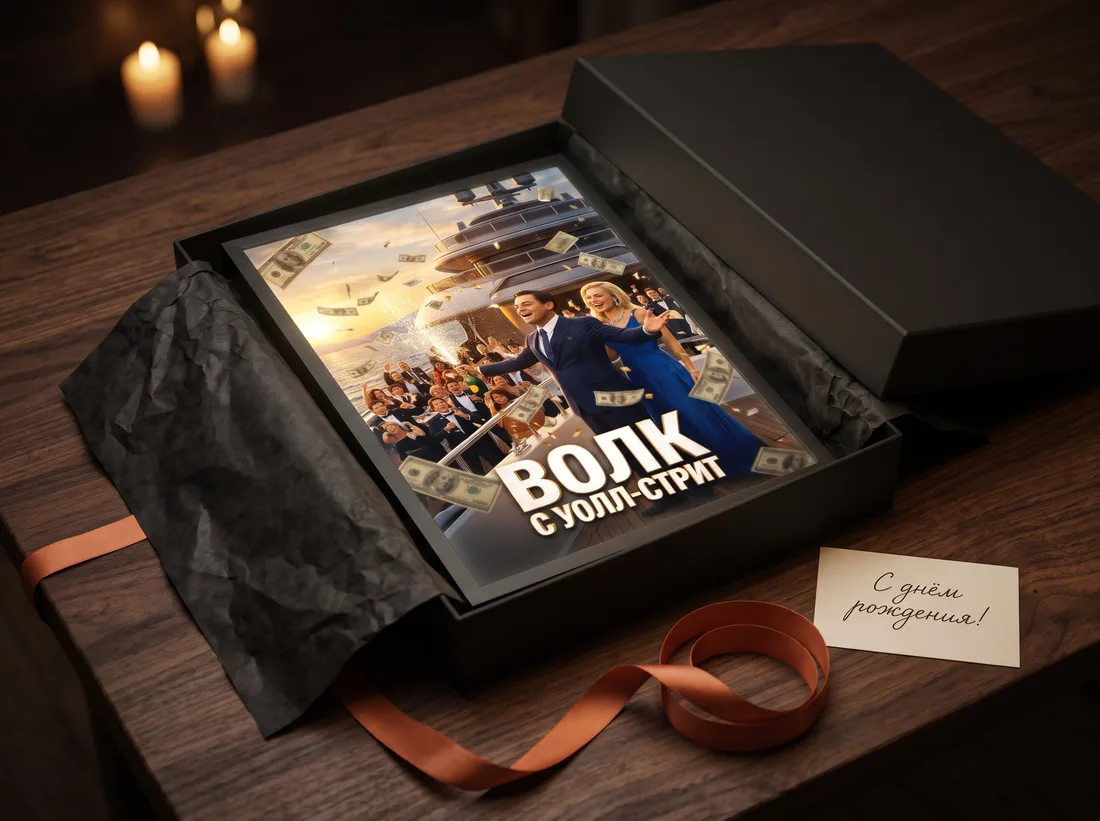
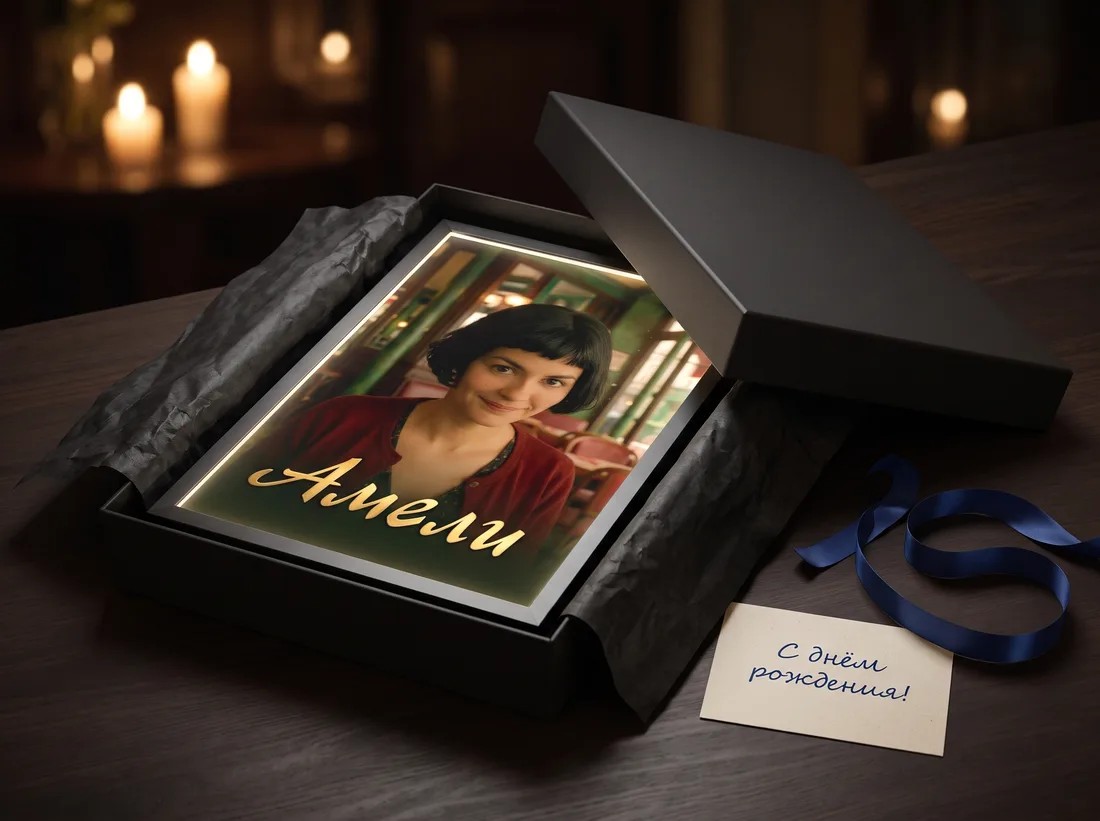
Синий вместо зелёного, фото-плитки, живой каталог, знак рубля, переключатель, подвал

diff --git a/index.html b/index.html
@@ -16,7 +16,7 @@
     --black: #000; --carbon: #0a0a0b; --graphite: #141416; --panel: #1b1b1e; --panel2: #232327;
     --line: rgba(255,255,255,.09); --line2: rgba(255,255,255,.16);
     --white: #f5f5f7; --silver: #b9bcc2; --muted: #8b8d93; --dim: #5d5f65;
-    --warm: 255, 214, 130; --accent: 255, 208, 40; --blue: 47, 107, 255; --green: 46, 204, 113; --rail: 0px; --hh: 78px; --disp: "Manrope", -apple-system, system-ui, sans-serif; --neutral: 255, 238, 214;
+    --warm: 255, 214, 130; --accent: 255, 208, 40; --blue: 84, 136, 255; --green: 84, 136, 255; --rail: 0px; --hh: 78px; --disp: "Manrope", -apple-system, system-ui, sans-serif; --neutral: 255, 238, 214;
     --glow: var(--warm);
     --pill: 4px;
   }
@@ -888,7 +888,7 @@
   @media (max-width: 900px) { .facts { grid-template-columns: repeat(2, minmax(0, 1fr)); } .facts div { border-left: 0; border-top: 1px solid rgba(206,220,255,.08); } .facts div:first-child, .facts div:nth-child(2) { border-top: 0; } .allspecs .specs3 { grid-template-columns: minmax(0, 1fr); gap: 8px; } }
 
   /* подарки */
-  .gifts3 .badge { background: rgb(var(--green)); color: #04130a; }
+  .gifts3 .badge { background: rgb(var(--blue)); color: #fff; }
   .gifts3 .set.hit { border-color: rgba(var(--green), .5) !important; }
 
   /* доставка: 0 ₽, маркетплейсы, счётчик по городу */
@@ -921,7 +921,7 @@
   @media (max-width: 900px) { .ship { grid-template-columns: minmax(0, 1fr); } .ship-main { grid-template-columns: minmax(0, 1fr); padding: 24px; } .ship-calc { grid-column: 1; grid-row: auto; padding: 24px 0 0; border-left: 0; border-top: 1px solid rgba(206,220,255,.1); } .ship-side { grid-template-columns: minmax(0, 1fr); } }
 
   /* Телеграм, корзина, демо-оплата */
-  .btn.tg { margin-top: 26px; height: 54px; padding: 0 26px; font-size: 16px; gap: 10px; background: rgb(var(--blue)); color: #fff; }
+  .btn.tg { margin-top: 26px; height: 54px; padding: 0 26px; font-size: 16px; gap: 10px; background: #2f6bff; color: #fff; }
   .btn.tg:hover { background: #4a80ff; }
   .btn.tg svg { width: 22px; height: 22px; fill: currentColor; }
   .drawer { width: min(504px, 100%); }
@@ -932,6 +932,60 @@
   .coil { height: clamp(400px, 42vw, 560px) !important; }
   footer .legal { font-size: 13px; color: rgba(240,244,250,.6); }
   @media (max-width: 760px) { .coil { height: 440px !important; } }
+
+  /* переключатель подсветки: ясные состояния, нормальная подпись */
+  .lightsw, .hero .lightsw { font-size: 14px; font-weight: 600; letter-spacing: 0; text-transform: none; color: rgba(240,244,250,.8); gap: 12px; }
+  .toggle { width: 48px; height: 28px; border-radius: 14px !important; background: rgba(206,220,255,.14); box-shadow: inset 0 0 0 1px rgba(206,220,255,.25); }
+  .toggle::after { top: 3px; left: 3px; width: 22px; height: 22px; border-radius: 50% !important; background: #f2f5fa; }
+  .toggle.on { background: rgb(var(--accent)); box-shadow: none; } .toggle.on::after { transform: translateX(20px); background: #07090e; }
+  .hero.off .hero-bg { filter: brightness(.55); }
+  /* подвал */
+  footer { font-size: 15px; padding: 64px 0 36px; background: #04060a; }
+  .fgrid h4 { font-size: 13px; font-weight: 700; letter-spacing: .04em; text-transform: none; color: var(--cream); margin-bottom: 14px; }
+  .fgrid a { color: rgba(240,244,250,.62); padding: 6px 0; font-size: 15px; }
+  .fgrid a:hover { color: var(--cream); }
+  footer .legal { font-size: 14px; color: rgba(240,244,250,.55); margin-top: 44px; }
+  footer .legal a:hover { color: var(--cream); }
+
+  /* вся коллекция: светлее и живее */
+  .sheet.cat { background: radial-gradient(ellipse 60% 40% at 12% 0%, rgba(47,107,255,.28), transparent 70%), radial-gradient(ellipse 50% 36% at 92% 0%, rgba(var(--accent), .16), transparent 70%), linear-gradient(180deg, #151c2e, #0b101b) !important; }
+  .cat-head { display: flex; align-items: center; gap: 14px; flex-wrap: wrap; }
+  .cat-head h3 { font-size: 34px !important; font-weight: 800 !important; letter-spacing: -.03em; }
+  .cat-n { padding: 6px 12px; border-radius: 999px; background: rgb(var(--accent)); color: #07090e; font-size: 13px; font-weight: 800; }
+  .cat-sub { color: rgba(240,244,250,.75); font-size: 16px; }
+  .cat-chips { display: flex; flex-wrap: wrap; gap: 8px; margin-top: 22px; }
+  .cat-chips button { padding: 10px 16px; border-radius: 999px; font-size: 14px; font-weight: 700; color: var(--cream); background: rgba(206,220,255,.1); transition: background .2s ease, color .2s ease, transform .2s ease; }
+  .cat-chips button:hover { background: rgba(206,220,255,.2); transform: translateY(-1px); }
+  .cat-chips button.on { background: #2f6bff; color: #fff; }
+  .cat-grid { grid-template-columns: repeat(auto-fill, minmax(168px, 1fr)); gap: 34px 24px; margin-top: 30px; }
+  .cg[hidden] { display: none; }
+  .cg .frame { box-shadow: 0 0 0 1px rgba(255,255,255,.12), 0 18px 34px rgba(0,0,0,.45), 0 0 34px rgba(var(--glow), .16); transition: transform .35s cubic-bezier(.2,.8,.2,1), box-shadow .35s ease; }
+  .cg:nth-child(odd) .frame { transform: rotate(-1.4deg); } .cg:nth-child(even) .frame { transform: rotate(1.2deg); }
+  .cg:hover .frame { transform: translateY(-8px) scale(1.04) rotate(0deg); outline: 0; box-shadow: 0 0 0 2px rgb(var(--accent)), 0 26px 44px rgba(0,0,0,.5), 0 0 60px rgba(var(--glow), .38); }
+  .cg b { margin-top: 14px; font-size: 15px; font-weight: 800; }
+  .cg span { font-size: 13px; color: rgba(240,244,250,.6); }
+  @media (max-width: 600px) { .cat-grid { grid-template-columns: repeat(3, minmax(0, 1fr)); gap: 20px 12px; } .cat-head h3 { font-size: 26px !important; } }
+
+  /* как это работает: плитки с фото */
+  .bento-head { display: flex; justify-content: space-between; align-items: flex-end; gap: 40px; flex-wrap: wrap; }
+  .bento-head .lead { max-width: 400px; }
+  .bento { display: grid; grid-template-columns: minmax(0, 1.25fr) minmax(0, 1fr) minmax(0, 1fr); grid-template-rows: 300px 270px; gap: 18px; margin-top: 44px; }
+  .bt { position: relative; border-radius: 16px !important; overflow: hidden; background: #0a0d14; box-shadow: inset 0 0 0 1px rgba(206,220,255,.08); }
+  .bt-vid { grid-row: 1 / 3; aspect-ratio: auto !important; }
+  .bt-wide { grid-column: 2 / 4; }
+  .bt > img, .bt > video { position: absolute; inset: 0; width: 100%; height: 100%; object-fit: cover; }
+  .bt > img:not(.lv-day) { transition: transform 1.4s cubic-bezier(.2,.8,.2,1); }
+  .bt:hover > img:not(.lv-day) { transform: scale(1.05); }
+  .bt::after { content: ""; position: absolute; inset: 0; z-index: 1; pointer-events: none; background: linear-gradient(0deg, rgba(4,6,11,.88), rgba(4,6,11,.25) 42%, transparent 60%); }
+  .bt-cap { position: absolute; z-index: 2; left: 26px; right: 26px; bottom: 24px; }
+  .bt-cap b { display: block; font-size: 32px; font-weight: 800; letter-spacing: -.035em; line-height: 1.1; color: var(--cream); }
+  .bt-cap span { display: block; margin-top: 6px; font-size: 15px; line-height: 1.4; color: rgba(240,244,250,.78); }
+  #specs { margin-top: 26px; }
+  @media (max-width: 900px) { .bento { grid-template-columns: minmax(0, 1fr); grid-template-rows: none; } .bt { aspect-ratio: 4 / 3; } .bt-vid { grid-row: auto; aspect-ratio: 4 / 3 !important; } .bt-wide { grid-column: auto; } .bt-cap b { font-size: 26px; } }
+  /* сервис */
+  .ship-t b { display: block; font-size: 40px; font-weight: 800; letter-spacing: -.04em; line-height: 1; color: var(--cream); }
+  .ship-t h3 { margin-top: 6px; font-size: 17px; font-weight: 700; color: rgba(240,244,250,.8); }
+  .ship-t p { margin-top: 12px; }
 </style>
 </head>
 <body class="in-hero">
@@ -986,27 +1040,17 @@
 </section>
 
 <!-- 2. Обзор -->
-<section id="overview"><div class="wrap split">
-  <div class="ov">
-    <div class="label">Как это работает</div>
-    <h2>Днём — картина.<br>Вечером — свет.</h2>
-    <p class="lead">Выключена — строгий постер в тонкой раме. Включена — светится изнутри, как афиша кинотеатра.</p>
-    <ul class="ov-list">
-      <li><b>Вместо бра</b><span>Мягкий свет, не слепит</span></li>
-      <li><b>Ровное свечение</b><span>Без пятен и тёмных углов</span></li>
-      <li><b>Один провод</b><span>Тонкий кабель с выключателем</span></li>
-    </ul>
+<section id="overview"><div class="wrap">
+  <div class="bento-head"><div><div class="label">Как это работает</div><h2 style="margin-top:16px">Днём — картина.<br>Вечером — свет.</h2></div>
+    <p class="lead">Выключена — строгий постер в тонкой раме. Включена — светится изнутри, как афиша кинотеатра.</p></div>
+  <div class="bento">
+    <div class="bt bt-vid lightvid to-day"><video id="lightVid" muted playsinline preload="auto" poster="img/w/scene-off.webp" aria-label="Рамка включается вечером"><source src="media/light-on.mp4" type="video/mp4"></video><img class="lv-day" src="img/w/scene-off.webp" alt=""><div class="bt-cap"><b>Свет вместо бра</b><span>Мягкий, ровный, не слепит</span></div></div>
+    <div class="bt"><img loading="lazy" src="img/w/d-edge.webp" alt="Тонкий профиль рамки сбоку"><div class="bt-cap"><b>10 мм</b><span>Толщина рамки — как у картины</span></div></div>
+    <div class="bt"><img loading="lazy" src="img/w/d-swap.webp" alt="Смена постера в рамке"><div class="bt-cap"><b>1 минута</b><span>Постер меняется спереди, рамку не снимать</span></div></div>
+    <div class="bt bt-wide"><img loading="lazy" src="img/w/d-switch.webp" alt="Выключатель на проводе"><div class="bt-cap"><b>Один провод</b><span>Выключатель под рукой · 12 В · 6–8 Вт, как ночник</span></div></div>
   </div>
-  <div class="lightvid"><video id="lightVid" muted playsinline preload="none" poster="img/w/scene-off.webp" aria-label="Рамка включается вечером"><source src="media/light-on.mp4" type="video/mp4"></video><img class="lv-day" src="img/w/scene-off.webp" alt="" loading="lazy"></div>
 </div>
 <div class="wrap" id="specs">
-  <div class="facts">
-    <div><b>10 мм</b><span>толщина рамки</span></div>
-    <div><b>30 × 42 см</b><span>постер A3</span></div>
-    <div><b>1,2 кг</b><span>вес — держится на одном саморезе</span></div>
-    <div><b>6–8 Вт</b><span>ест как ночник</span></div>
-    <div><b>12 В</b><span>безопасное напряжение</span></div>
-  </div>
   <details class="allspecs"><summary>Все характеристики</summary>
     <div class="specs3">
       <table class="spec"><tr><td>Формат</td><td>A3, 297 × 420 мм</td></tr><tr><td>Размер рамки</td><td>≈ 321 × 444 мм</td></tr><tr><td>Профиль</td><td>Алюминий, матовый чёрный</td></tr><tr><td>Фронт</td><td>Защитное стекло</td></tr><tr><td>Смена постера</td><td>Спереди, за минуту</td></tr></table>
@@ -1047,8 +1091,8 @@
       </div>
     </div>
     <div class="ship-side">
-      <div class="ship-t"><h3>7 дней на возврат</h3><p>Не подошло — вернём деньги после получения рамки.</p></div>
-      <div class="ship-t"><h3>Гарантия 1 год</h3><p>Перестала светить — заменим рамку за наш счёт.</p></div>
+      <div class="ship-t"><b>7 дней</b><h3>на возврат</h3><p>Не подошло — вернём деньги после получения рамки.</p></div>
+      <div class="ship-t"><b>1 год</b><h3>гарантии</h3><p>Перестала светить — заменим рамку за наш счёт.</p></div>
     </div>
   </div>
 </div></section>
@@ -1086,7 +1130,8 @@
 <div class="overlay" id="cartOv"></div>
 <div class="overlay" id="catOv"><div class="sheet cat">
   <button class="x" data-close="catOv" aria-label="Закрыть">×</button>
-  <h3>Вся коллекция</h3><p class="cat-sub">Нажмите на постер — он встанет в рамку. Доставка бесплатно.</p>
+  <div class="cat-head"><h3>Вся коллекция</h3><span class="cat-n" id="catN"></span></div><p class="cat-sub">Нажмите на постер — он встанет в рамку. Доставка бесплатно.</p>
+  <div class="cat-chips" id="catChips"></div>
   <div class="cat-grid" id="catGrid"></div>
 </div></div>
 <div class="overlay" id="pickOv"><div class="sheet picker">
@@ -1139,7 +1184,6 @@ const films = [
   { t: "Марсианин", q: "Один на Марсе — и картошка.", tag: true, o: "The Martian", y: 2015, d: "Ридли Скотт", c: ["sci"], img: "img/martian2.jpg", f: ["Энди Вейер сначала выкладывал роман главами на своём сайте.", "Марс снимали в иорданской пустыне Вади-Рам.", "Семь номинаций на «Оскар»."] },
   { t: "Амели", q: "Маленькие радости ложечкой.", tag: true, o: "Le Fabuleux Destin d'Amélie Poulain", y: 2001, d: "Жан-Пьер Жёне", c: ["love"], img: "img/amelie2.jpg", f: ["Снимали на Монмартре в Париже.", "Красный и зелёный усилили при цветокоррекции — это почерк фильма.", "Пять номинаций на «Оскар»."] },
   { t: "Драйв", q: "Ночной город, неон и тишина.", tag: true, o: "Drive", y: 2011, d: "Николас Виндинг Рефн", c: ["action"], img: "img/drive2.jpg", f: ["Рефн получил приз за режиссуру в Каннах.", "Синтвейв-саундтрек стал культовым сам по себе.", "Снят по роману Джеймса Саллиса."] },
-  { t: "Волк с Уолл-стрит", q: "Продай мне эту ручку.", o: "The Wolf of Wall Street", y: 2013, d: "Мартин Скорсезе", c: ["cult", "action"], img: "img/wolf2.jpg", f: ["Ди Каприо получил «Золотой глобус» за роль Джордана Белфорта.", "Настоящий Белфорт появляется в фильме в камео — в самом конце."] },
   { t: "Клан Сопрано", q: "Бада Бинг!", tag: true, o: "The Sopranos", y: 1999, d: "Дэвид Чейз", c: ["cult"], img: "img/sopranos2.jpg", f: ["Сериал собрал 21 премию «Эмми».", "Финальную сцену в закусочной фанаты разбирают до сих пор."] },
   { t: "Джентльмены", q: "Когда лев голоден — он ест.", o: "The Gentlemen", y: 2019, d: "Гай Ричи", c: ["cult", "action"], img: "img/gentlemen2.jpg", f: ["Мэттью Макконахи играет американца, построившего бизнес в Англии.", "В 2024 году по фильму вышел одноимённый сериал."] },
   { t: "Гарри Поттер", q: "Торжественно клянусь, что замышляю только шалость.", o: "Harry Potter and the Prisoner of Azkaban", y: 2004, d: "Альфонсо Куарон", c: ["sci", "winter"], img: "img/harrypotter2.jpg", f: ["«Узник Азкабана» — единственный фильм серии, снятый Альфонсо Куароном.", "Сириуса Блэка сыграл Гэри Олдман."] },
@@ -1174,7 +1218,7 @@ if (!matchMedia("(prefers-reduced-motion: reduce)").matches) {
   set(false);
   preload(P(films[cfg.poster].img)).then(() => setTimeout(() => { hero.classList.add("intro"); set(true); setTimeout(() => hero.classList.remove("intro"), 2600); }, 1500));
 }
-["Убить Билла", "Интерстеллар", "Матрица", "Бойцовский клуб", "Волк с Уолл-стрит"].map(t => films.findIndex(f => f.t === t)).forEach(i => { const m = document.createElement("button"); m.className = "mini"; m.dataset.i = i; m.setAttribute("aria-label", films[i].t); m.innerHTML = '<img decoding="async" alt="" src="' + T(films[i].img) + '">'; m.onclick = () => { cfg.poster = +m.dataset.i; renderHero(); }; $("minis").appendChild(m); });
+["Убить Билла", "Интерстеллар", "Матрица", "Бойцовский клуб", "Дюна"].map(t => films.findIndex(f => f.t === t)).forEach(i => { const m = document.createElement("button"); m.className = "mini"; m.dataset.i = i; m.setAttribute("aria-label", films[i].t); m.innerHTML = '<img decoding="async" alt="" src="' + T(films[i].img) + '">'; m.onclick = () => { cfg.poster = +m.dataset.i; renderHero(); }; $("minis").appendChild(m); });
 const more = document.createElement("button"); more.type = "button"; more.className = "mini more"; more.dataset.cat = ""; more.setAttribute("aria-label", "Все постеры"); more.innerHTML = '<img decoding="async" alt="" src="' + T(films.find(f => f.t === "Сияние").img) + '"><span>+' + (films.length - 5) + "</span>"; $("minis").appendChild(more);
 // миниатюры сами меняются: раз в 3,5 с одна плитка показывает другой фильм
 if (!matchMedia("(prefers-reduced-motion: reduce)").matches) setInterval(() => {
@@ -1189,7 +1233,8 @@ if (!matchMedia("(prefers-reduced-motion: reduce)").matches) setInterval(() => {
 // ---------- день / вечер ----------
 // видео «днём — картина, вечером — свет»: играет, только пока видно
 { const v = $("lightVid"), box = v.parentNode; let vis = false;
-  v.addEventListener("ended", () => setTimeout(() => { box.classList.add("to-day"); setTimeout(() => { v.currentTime = 0; setTimeout(() => { box.classList.remove("to-day"); if (vis) v.play().catch(() => {}); }, 1400); }, 1300); }, 1800));
+  v.addEventListener("playing", () => setTimeout(() => box.classList.remove("to-day"), 120));
+  v.addEventListener("ended", () => setTimeout(() => { box.classList.add("to-day"); setTimeout(() => { v.currentTime = 0; if (vis) setTimeout(() => v.play().catch(() => {}), 600); }, 1400); }, 1800));
   new IntersectionObserver(es => es.forEach(e => { vis = e.isIntersecting; if (vis) { if (!v.ended) v.play().catch(() => {}); } else v.pause(); }), { threshold: .35 }).observe(v); }
 
 // ---------- вкладки характеристик ----------
@@ -1200,7 +1245,11 @@ document.querySelectorAll("#specTabs button").forEach(b => b.onclick = () => {
 
 // ---------- постеры: коллекция «рекой» — колонки едут вверх и вниз ----------
 $("catCount").textContent = "· " + films.length;
-$("catGrid").innerHTML = films.map((f, i) => '<button class="cg" data-i="' + i + '"><div class="frame"><div class="poster"><img decoding="async" loading="lazy" alt="" src="' + T(f.img) + '"></div></div><b>' + f.t + '</b><span>' + f.y + " · " + f.d + '</span></button>').join("");
+$("catN").textContent = films.length + " фильмов";
+$("catGrid").innerHTML = films.map((f, i) => '<button class="cg" data-i="' + i + '" data-c="' + f.c.join(" ") + '"><div class="frame lit"><div class="poster"><img decoding="async" loading="lazy" alt="" src="' + T(f.img) + '"></div></div><b>' + f.t + '</b><span>' + f.y + " · " + f.d + '</span></button>').join("");
+cats.filter(([k]) => k === "all" || films.some(f => f.c.includes(k))).forEach(([k, n]) => { const b = document.createElement("button"); b.type = "button"; b.textContent = n; b.className = k === "all" ? "on" : "";
+  b.onclick = () => { $("catChips").querySelectorAll("button").forEach(x => x.classList.toggle("on", x === b)); let n = 0; $("catGrid").querySelectorAll(".cg").forEach(c => { const ok = k === "all" || c.dataset.c.split(" ").includes(k); c.hidden = !ok; if (ok) { c.style.setProperty("--k", n++); c.style.animation = "none"; void c.offsetWidth; c.style.animation = ""; } }); };
+  $("catChips").appendChild(b); });
 $("catGrid").querySelectorAll(".cg").forEach((b, k) => { b.style.setProperty("--k", k); b.onclick = () => { $("catOv").classList.remove("open"); pickFilm(+b.dataset.i); }; });
 document.addEventListener("click", e => { if (e.target.closest("[data-cat]")) { e.preventDefault(); $("catOv").classList.remove("open"); void $("catOv").offsetWidth; $("catOv").classList.add("open"); } });
 function pickFilm(i) { cfg.poster = i; renderHero(); toast("«" + films[i].t + "» — в рамке"); setTimeout(() => $("top").scrollIntoView({ behavior: "smooth" }), 400); }

diff --git a/fonts/fonts.css b/fonts/fonts.css
@@ -19,6 +19,14 @@
   font-style: normal;
   font-weight: 300 800;
   font-display: swap;
+  src: url(manrope-latin-ext.woff2) format('woff2');
+  unicode-range: U+0100-02BA, U+02BD-02C5, U+02C7-02CC, U+02CE-02D7, U+02DD-02FF, U+0304, U+0308, U+0329, U+1D00-1DBF, U+1E00-1E9F, U+1EF2-1EFF, U+2020, U+20A0-20AB, U+20AD-20C4, U+2113, U+2C60-2C7F, U+A720-A7FF;
+}
+@font-face {
+  font-family: 'Manrope';
+  font-style: normal;
+  font-weight: 300 800;
+  font-display: swap;
   src: url(manrope-latin.woff2) format('woff2');
   unicode-range: U+0000-00FF, U+0131, U+0152-0153, U+02BB-02BC, U+02C6, U+02DA, U+02DC, U+0304, U+0308, U+0329, U+2000-206F, U+20AC, U+2122, U+2191, U+2193, U+2212, U+2215, U+FEFF, U+FFFD;
 }
